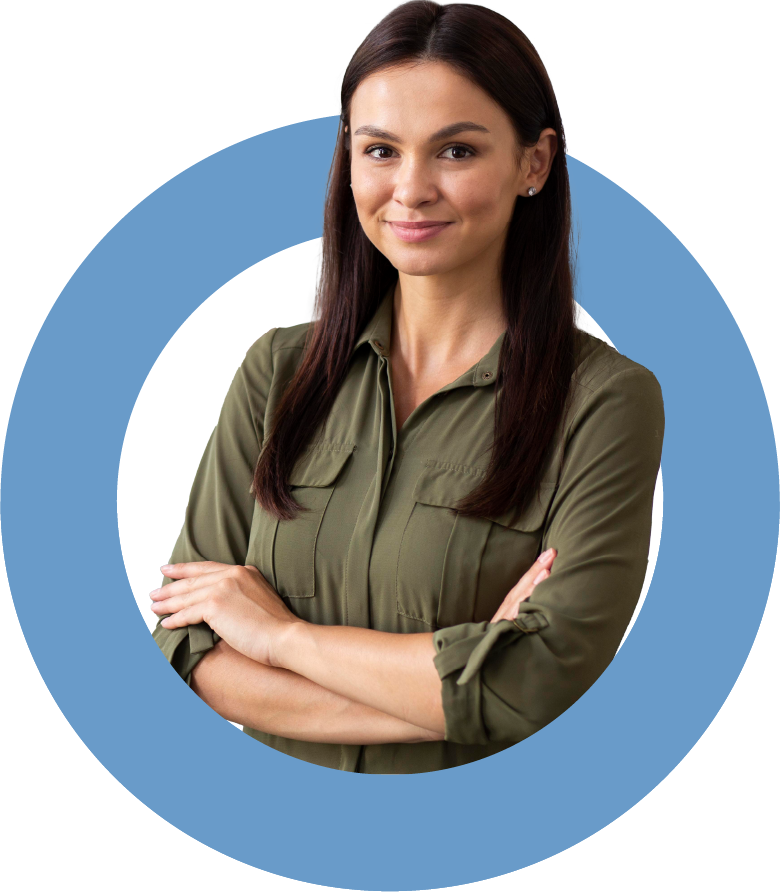
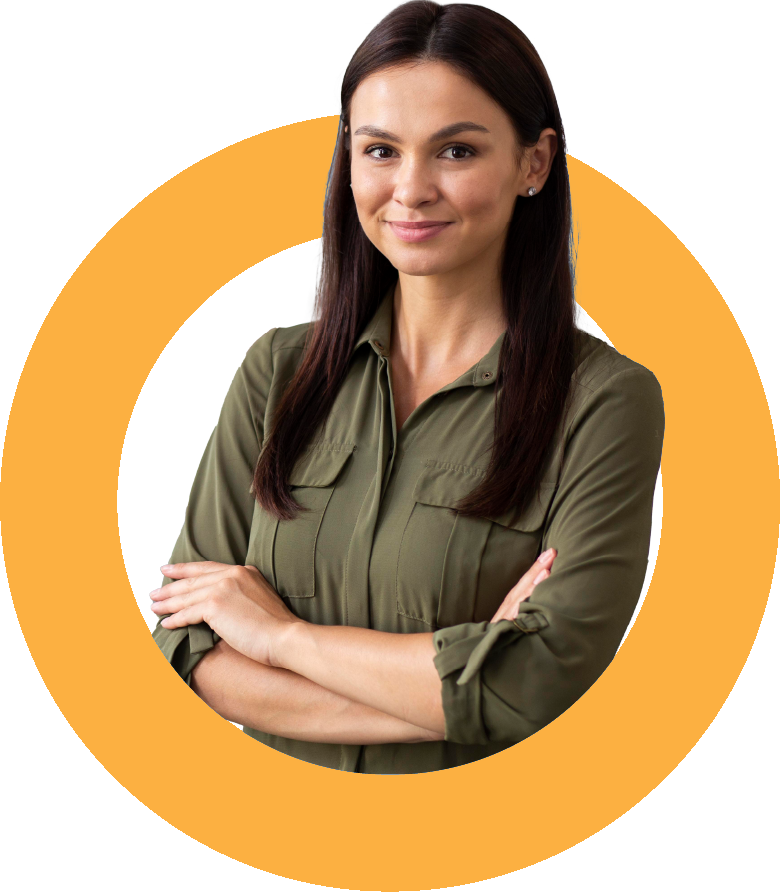
1.0.7

diff --git a/css/style.css b/css/style.css
@@ -277,7 +277,6 @@ body {
 
 .footer {
     padding-top: 40px;
-    padding-bottom: 20px;
     justify-content: center;
 }
 
@@ -287,7 +286,7 @@ body {
     padding-left: 20px;
     padding-right: 20px;
     display: flex;
-    background-color: #fff;
+    background-color: #F0F5F7;
     border-top: solid 1px #999999;
 }
 
@@ -428,7 +427,7 @@ body {
 }
 
 .data_congresso {
-    color: var(--color-6);
+    color: var(--color-3);
     font-size: 15px;
     font-weight: 900;
 }
@@ -461,6 +460,7 @@ h2 {
     width: 100%;
     line-height: 24px;
     margin: 12px 0 22px;
+    max-width: 400px;
 }
 
 .btns_home {
@@ -474,6 +474,7 @@ h2 {
     height: 100vh;
     width: auto;
     z-index: -888;
+    opacity: 50%;
 }
 
 #img_banner_home {
@@ -639,7 +640,7 @@ h3 {
 .adpol, .adpeb {
     display: flex;
     flex-direction: column;
-    align-items: center;
+    
 }
 
 .adpol {
@@ -652,6 +653,7 @@ h3 {
     margin-bottom: 16px;
     color: #fff;
     font-weight: 700;
+    text-align: left;
 }
 
 #img_adpol, #img_adpeb {
@@ -865,6 +867,11 @@ h3 {
 
 .organizacao_section_adpol {
     margin-right: 80px;
+    align-items: center;
+}
+
+.organizacao_section_adpeb {
+    align-items: center;
 }
 
 #img_adpol_org, #img_adpeb_org {
@@ -883,7 +890,7 @@ h3 {
 
 #circulo_bg {
     width: max-content;
-    height: 800px;
+    height: 1250px;
     position: absolute;
     z-index: -999;
     left: 0;
